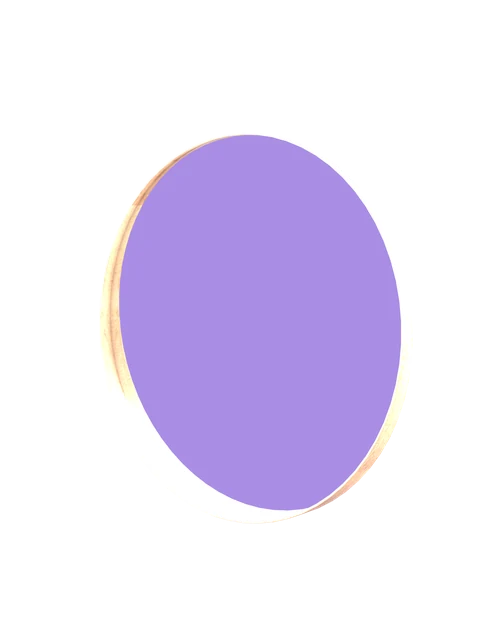
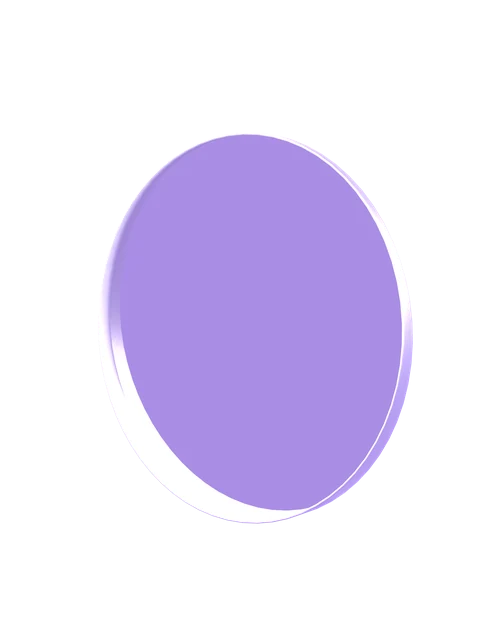
Mirror v19: silver metal frame, bottom-tilt for visible bottom rim depth

diff --git a/scripts/render_mount_object_icons.py b/scripts/render_mount_object_icons.py
@@ -118,15 +118,18 @@ ICONS = {
         "strip_cord_above_world_z": -0.15,
     },
     "mirror": {
-        # Sketchfab "IKEA Stockholm" — round wall mirror with chunky light
-        # wood (oak/birch) frame. Matches the reference styling shown by
-        # user (round, wooden chunky rim, visible 3D depth).
-        # Largest face normal +X → -π/2 Z to face camera. Then -35° Z for
-        # 3/4 side perspective (drill/roller staging).
+        # Sketchfab "IKEA Stockholm" — round wall mirror with chunky frame.
+        # Wood frame overridden to brushed silver metal (no wood, no gold).
+        # frame_is_largest=True: Stockholm's curved wood frame has more
+        # polys than the flat mirror disc, so the silver override targets
+        # the LARGEST-area material.
+        # 6° forward tilt exposes more of the bottom rim profile depth.
         "glb":     "sketchfab_mirror_stockholm.glb",
-        "rot_xyz": (0, 0, -math.pi/2 - math.radians(35)),
+        "rot_xyz": (math.radians(-6), 0, -math.pi/2 - math.radians(35)),
         "scale":   0.55,
         "camera_fov_deg": 30,
+        "force_silver_frame": True,
+        "frame_is_largest": True,
     },
 }
 
@@ -200,6 +203,47 @@ def make_icon_fn(key, cfg):
                     bsdf.inputs["Metallic"].default_value = 0.55
                     bsdf.inputs["Roughness"].default_value = 0.40
                     print(f"  [{key}] mat '{mat.name}' → desaturated greyscale")
+
+        # Optional silver-metal frame override. For models where the FRAME
+        # has a curved/wrap-around geometry with MORE polygons than the flat
+        # mirror disc (e.g., Stockholm), the largest-area material IS the
+        # frame. force_silver_frame_largest=True targets that case.
+        if cfg.get("force_silver_frame"):
+            area_by_mat = {}
+            for m in meshes:
+                for p in m.data.polygons:
+                    if p.material_index < len(m.data.materials):
+                        mat = m.data.materials[p.material_index]
+                        if mat is None: continue
+                        area_by_mat[mat.name] = area_by_mat.get(mat.name, 0) + p.area
+            print(f"  [{key}] silver-frame areas: {area_by_mat}")
+            if area_by_mat:
+                ranked = sorted(area_by_mat.items(), key=lambda x: -x[1])
+                # Stockholm: wood frame = LARGEST area (curved donut),
+                # mirror glass = smaller (flat disc). So override the largest.
+                target_mats = [ranked[0][0]] if cfg.get("frame_is_largest") else [n for n, _ in ranked[1:]]
+                for mat_name in target_mats:
+                    fm = bpy.data.materials.get(mat_name)
+                    if not (fm and fm.use_nodes): continue
+                    nt = fm.node_tree
+                    bsdf = next((n for n in nt.nodes if n.bl_idname == "ShaderNodeBsdfPrincipled"), None)
+                    if not bsdf: continue
+                    for lk in list(nt.links):
+                        if lk.to_node == bsdf and (lk.to_socket.name == "Base Color"
+                                                   or lk.to_socket.name == "Normal"):
+                            nt.links.remove(lk)
+                    bsdf.inputs["Base Color"].default_value = (0.78, 0.78, 0.82, 1.0)
+                    bsdf.inputs["Metallic"].default_value = 1.0
+                    bsdf.inputs["Roughness"].default_value = 0.28
+                    # Brushed-noise normal for surface variation
+                    noise = nt.nodes.new("ShaderNodeTexNoise")
+                    noise.inputs["Scale"].default_value = 80.0
+                    noise.inputs["Detail"].default_value = 6.0
+                    bump = nt.nodes.new("ShaderNodeBump")
+                    bump.inputs["Strength"].default_value = 0.10
+                    nt.links.new(noise.outputs["Fac"], bump.inputs["Height"])
+                    nt.links.new(bump.outputs["Normal"], bsdf.inputs["Normal"])
+                    print(f"  [{key}] frame mat '{mat_name}' → brushed silver metal")
 
         # Optional smoked-glass mirror surface — replaces the largest-area
         # material's base color with a deep blue-grey tint and tunes the
